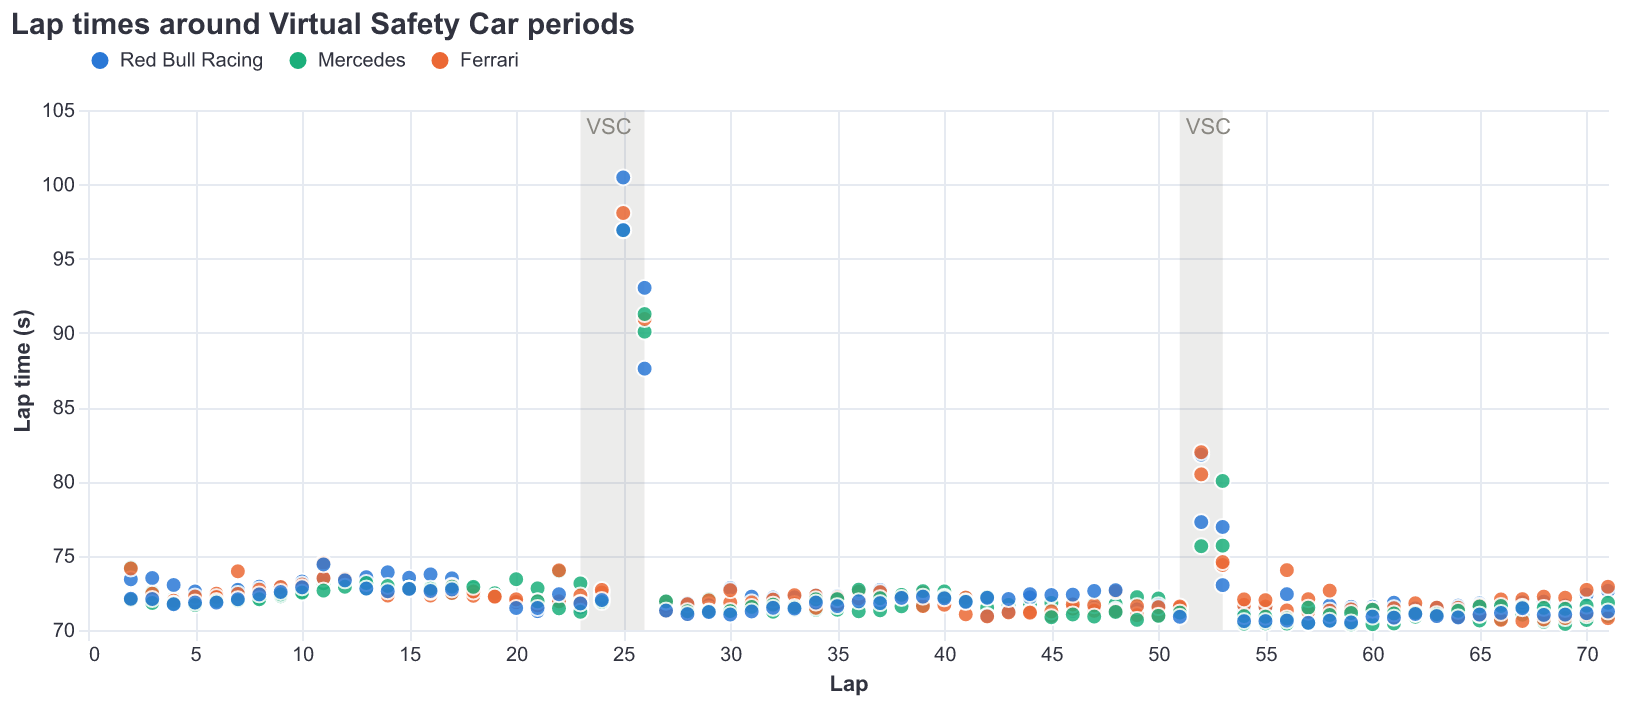
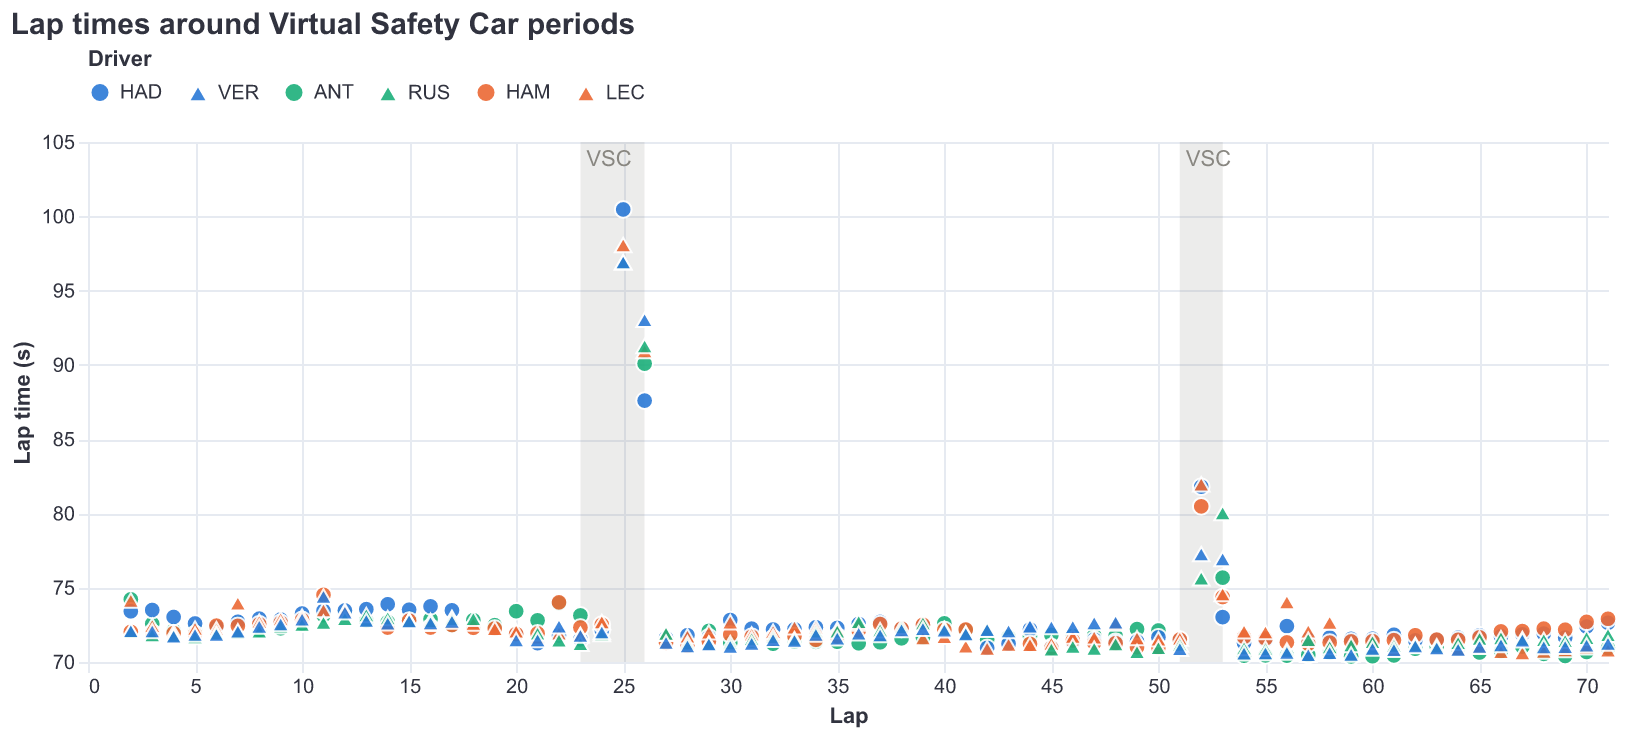
Keep drivers identifiable in the VSC chart and drop ownership badges

diff --git a/app/story.py b/app/story.py
@@ -67,10 +67,6 @@ def pit_table(visits: pd.DataFrame) -> pd.DataFrame:
     }).sort_values(['In-lap', 'Driver'])
 
 
-def roys_part() -> None:
-    st.badge("Roy's part: chart and analysis", icon=':material/bar_chart:', color='blue')
-
-
 st.set_page_config(page_title='F1 Strategy Visualisation', layout='wide')
 data = load()
 provenance = data['summary']['provenance']
@@ -78,8 +74,7 @@ mode = 'dark' if st.context.theme.type == 'dark' else 'light'
 
 st.title('Pace, tyres and pit stops at the 2026 Austrian Grand Prix')
 st.caption('Both drivers from Red Bull Racing, Mercedes and Ferrari. '
-           f"Data: FastF1 {provenance['fastf1_version']}, accessed {provenance['access_date']}. "
-           "Charts are Roy's part; these are prototypes for him to refine.")
+           f"Data: FastF1 {provenance['fastf1_version']}, accessed {provenance['access_date']}.")
 
 teams = st.multiselect('Teams', TEAMS, default=TEAMS)
 laps = data['laps'].loc[data['laps'].Team.isin(teams)]
@@ -91,7 +86,6 @@ if not teams:
 pace = laps.loc[laps.EligibleForPace]
 
 st.header('The race at a glance')
-roys_part()
 st.altair_chart(charts.stint_timeline(stints, laps), width='stretch')
 st.caption('Each bar is one stint, labelled S (Soft), M (Medium) or H (Hard). '
            'Gaps between bars are pit stops; grey bands are Virtual Safety Car laps.')
@@ -104,7 +98,6 @@ with st.expander('What do these terms mean?'):
 st.header('1. Who was fastest in normal racing?')
 st.write(f'Compares {len(pace)} normal racing laps. '
          'Lap 1, pit-stop laps, VSC and yellow-flag laps, and deleted laps are left out.')
-roys_part()
 st.altair_chart(charts.pace_chart(pace, mode), width='stretch')
 st.caption("The bar covers the middle half of each driver's normal racing laps and the dot marks their typical lap. "
            'A shorter bar means more consistent pace.')
@@ -112,13 +105,11 @@ st.caption("The bar covers the middle half of each driver's normal racing laps a
 st.header('2. How did lap times change as tyres aged?')
 st.write('Tyre age counts laps on a set, not wear. Cars also get lighter as fuel burns, '
          'so slower or faster laps are not caused by tyres alone.')
-roys_part()
 st.altair_chart(charts.tyre_age_chart(pace))
 st.caption('Each line is one stint, labelled by tyre. Only normal racing laps are shown.')
 
 st.header('3. What happened around the pit stops?')
 st.write('Pit-lane time covers the whole trip through the pit lane, not just the stationary stop.')
-roys_part()
 st.altair_chart(charts.position_chart(laps, visits, mode), width='stretch')
 st.caption('Dots mark the lap each driver entered the pits. Team-mates share a colour, '
            'one solid and one dashed; labels on the right name each driver.')
@@ -129,7 +120,6 @@ st.header('4. How did the Virtual Safety Car change things?')
 vsc = laps.loc[laps.HasVSC, 'LapNumber']
 st.write(f'VSC periods affected laps {lap_ranges(vsc)}. These laps are left out of pace comparisons '
          'but still matter for pit-stop timing.' if len(vsc) else 'No VSC laps for the selected teams.')
-roys_part()
 st.altair_chart(charts.vsc_chart(laps, mode), width='stretch')
 st.caption('Lap 1 and pit-stop laps are left out, so the jumps inside the grey bands show the VSC slowdown.')
 

diff --git a/app/charts.py b/app/charts.py
@@ -44,6 +44,17 @@ def compound_color() -> alt.Color:
                      legend=alt.Legend(title='Tyre', orient='top', labelExpr='slice(datum.label, 0, 1) + lower(slice(datum.label, 1))'))
 
 
+def driver_marks(frame: pd.DataFrame, mode: str) -> dict:
+    """Team colour plus a shape per team-mate, sharing one driver legend, so drivers stay identifiable in print."""
+    order = driver_order(frame)
+    teams = frame.drop_duplicates('Driver').set_index('Driver').Team
+    palette = dict(zip(TEAMS, TEAM_COLORS[mode]))
+    legend = alt.Legend(title='Driver', orient='top')
+    return {'color': alt.Color('Driver:N', scale=alt.Scale(domain=order, range=[palette[teams[d]] for d in order]), legend=legend),
+            'shape': alt.Shape('Driver:N', scale=alt.Scale(domain=order, range=['circle', 'triangle-up']*len(TEAMS)),
+                               legend=legend)}
+
+
 def vsc_bands(laps: pd.DataFrame) -> pd.DataFrame:
     """Contiguous VSC-affected laps as [start, end] lap spans for shading."""
     numbers = sorted(int(n) for n in laps.loc[laps.HasVSC, 'LapNumber'].unique())
@@ -160,10 +171,10 @@ def vsc_chart(laps: pd.DataFrame, mode: str) -> alt.LayerChart:
     # Lap 1 and pit laps are left out so the VSC effect is not mixed with standing starts or stops.
     data = laps.loc[~(laps.IsFirstLap | laps.IsPitInLap | laps.IsPitOutLap)].assign(
         Phase=lambda d: d.HasVSC.map({True: 'VSC lap', False: 'Other lap'}))
-    dots = alt.Chart(data).mark_circle(size=64, opacity=.85, stroke=SURFACE[mode], strokeWidth=1).encode(
+    dots = alt.Chart(data).mark_point(filled=True, size=70, opacity=.9, stroke=SURFACE[mode], strokeWidth=1).encode(
         x=alt.X('LapNumber:Q', title='Lap', scale=alt.Scale(domain=[1, int(laps.LapNumber.max())], nice=False)),
         y=alt.Y('LapTimeSeconds:Q', title='Lap time (s)', scale=alt.Scale(zero=False)),
-        color=team_color(list(laps.Team.unique()), mode),
+        **driver_marks(data, mode),
         tooltip=['Driver', alt.Tooltip('LapNumber', title='Lap'), alt.Tooltip('LapTimeSeconds', title='Lap time (s)', format='.3f'),
                  alt.Tooltip('Phase', title='Lap type')])
     return alt.layer(shade(vsc_bands(laps)), dots).properties(height=260)
